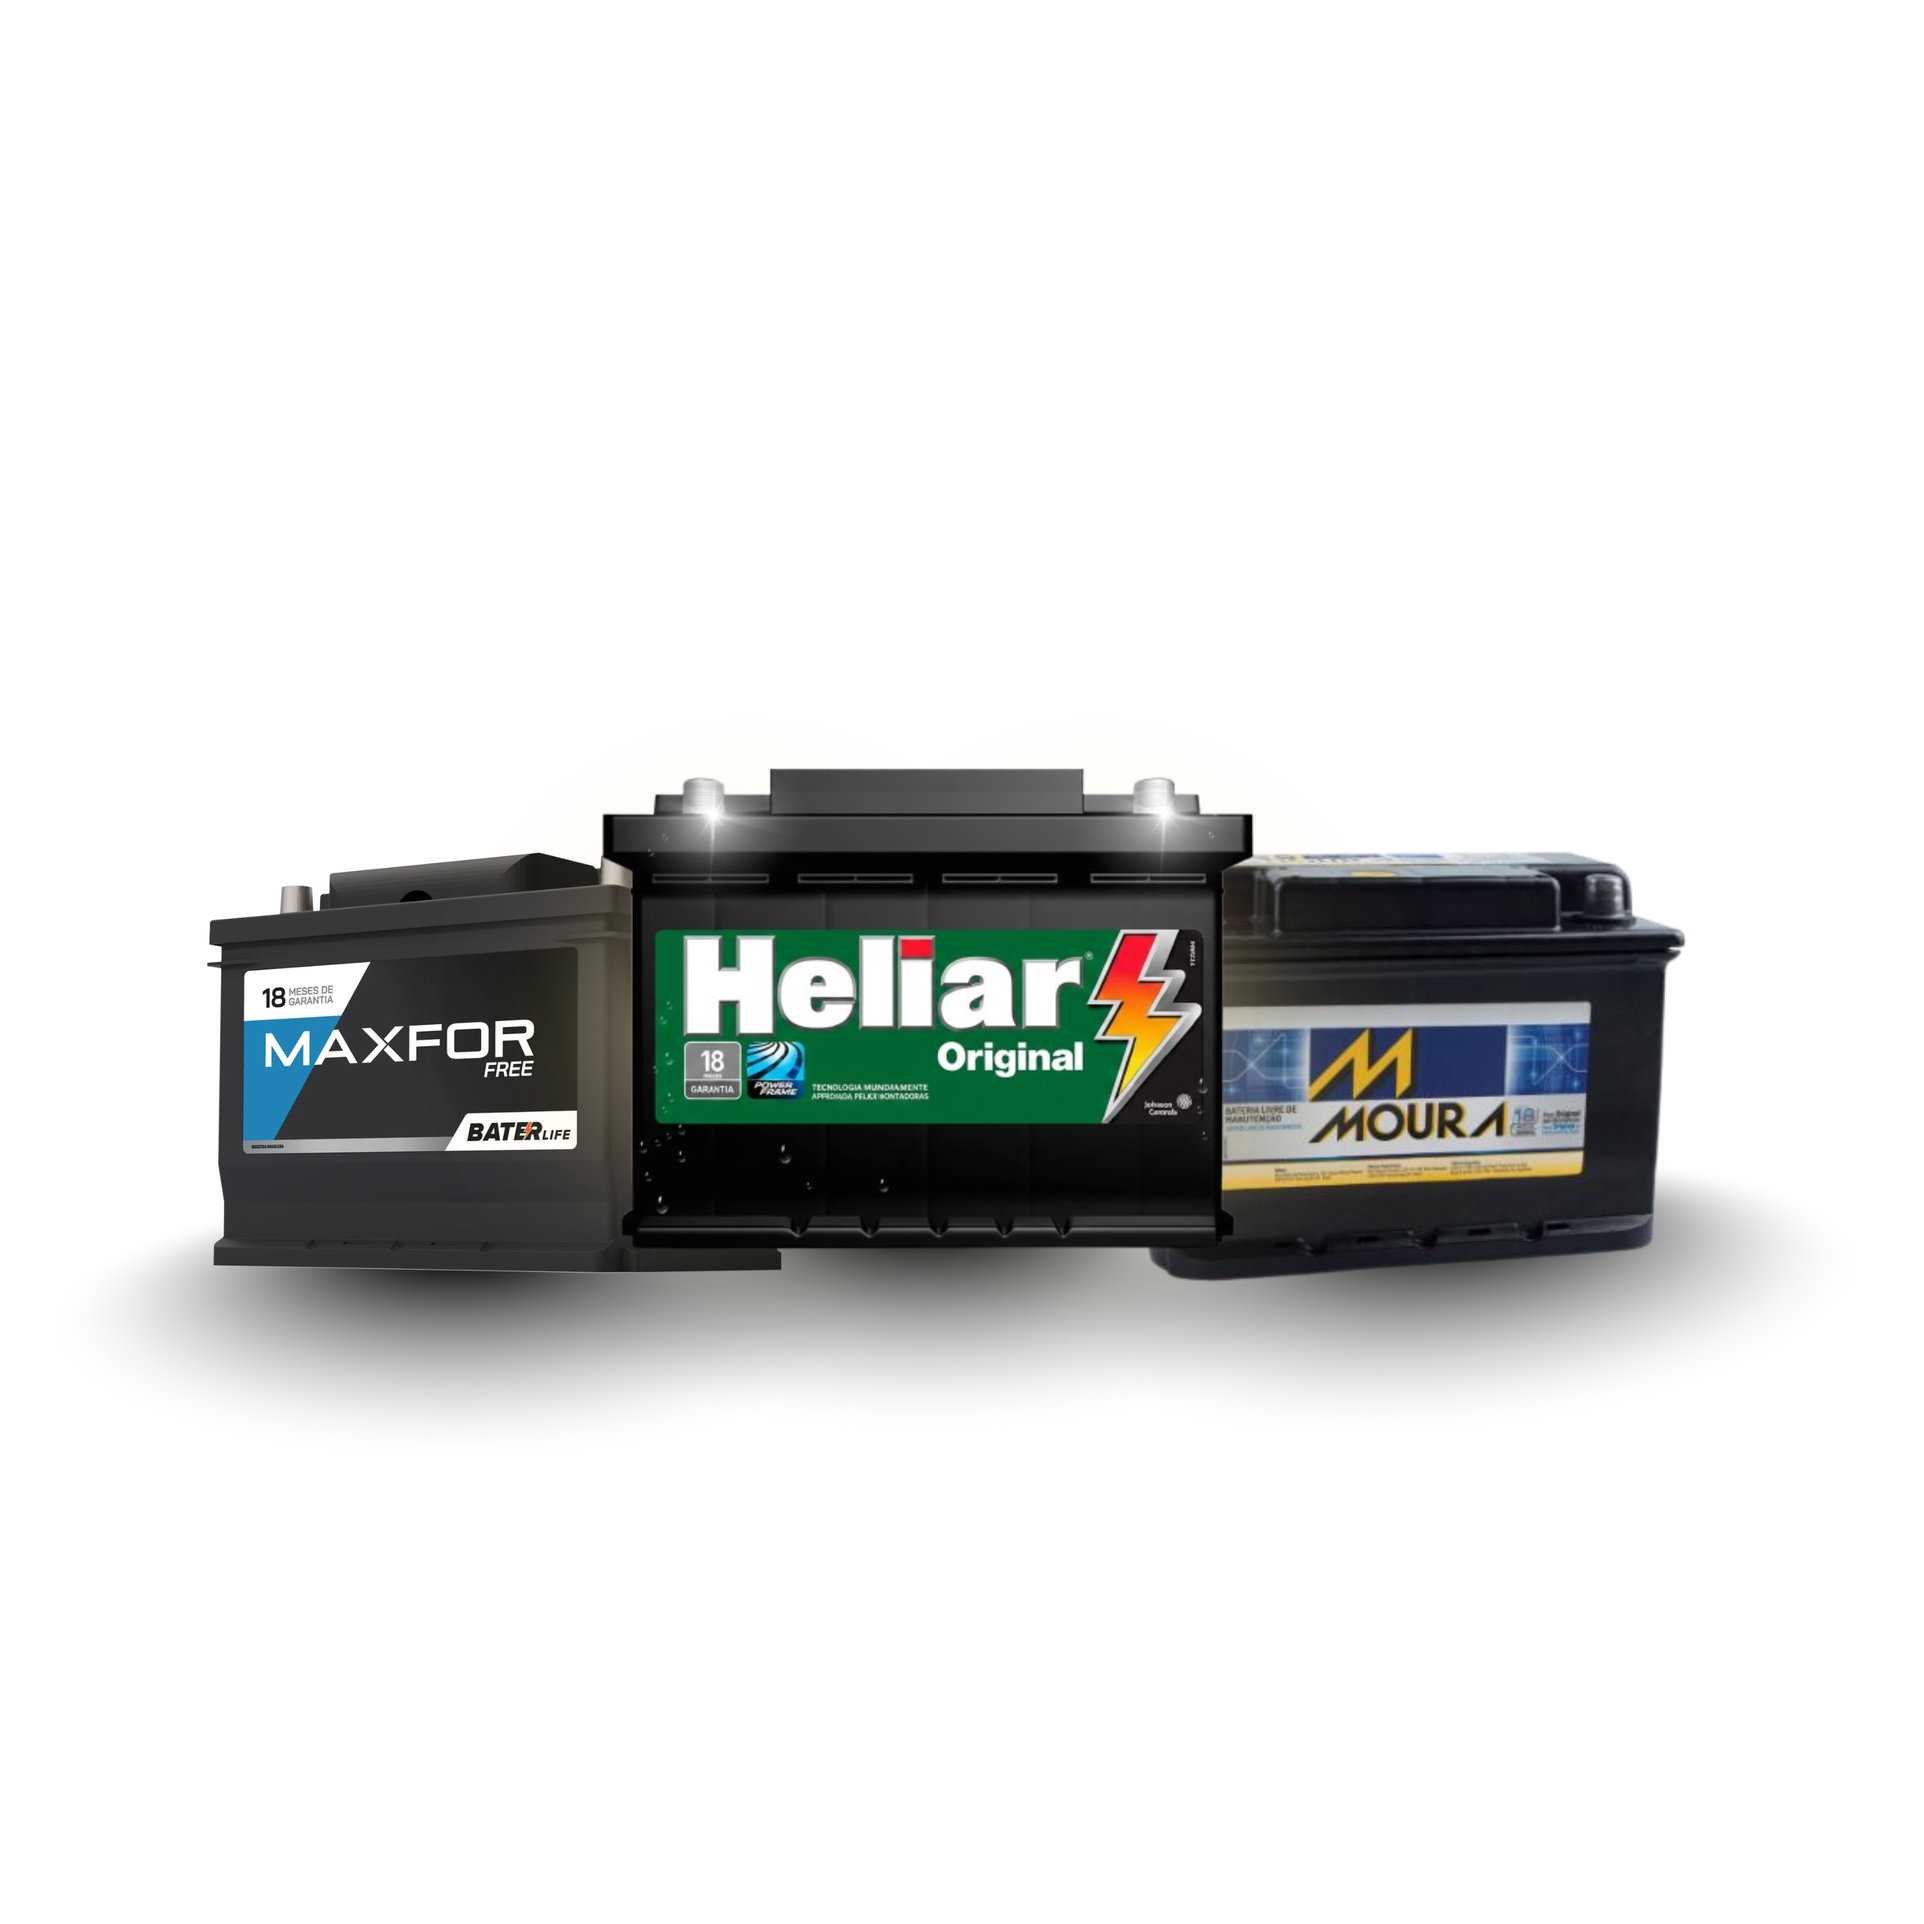
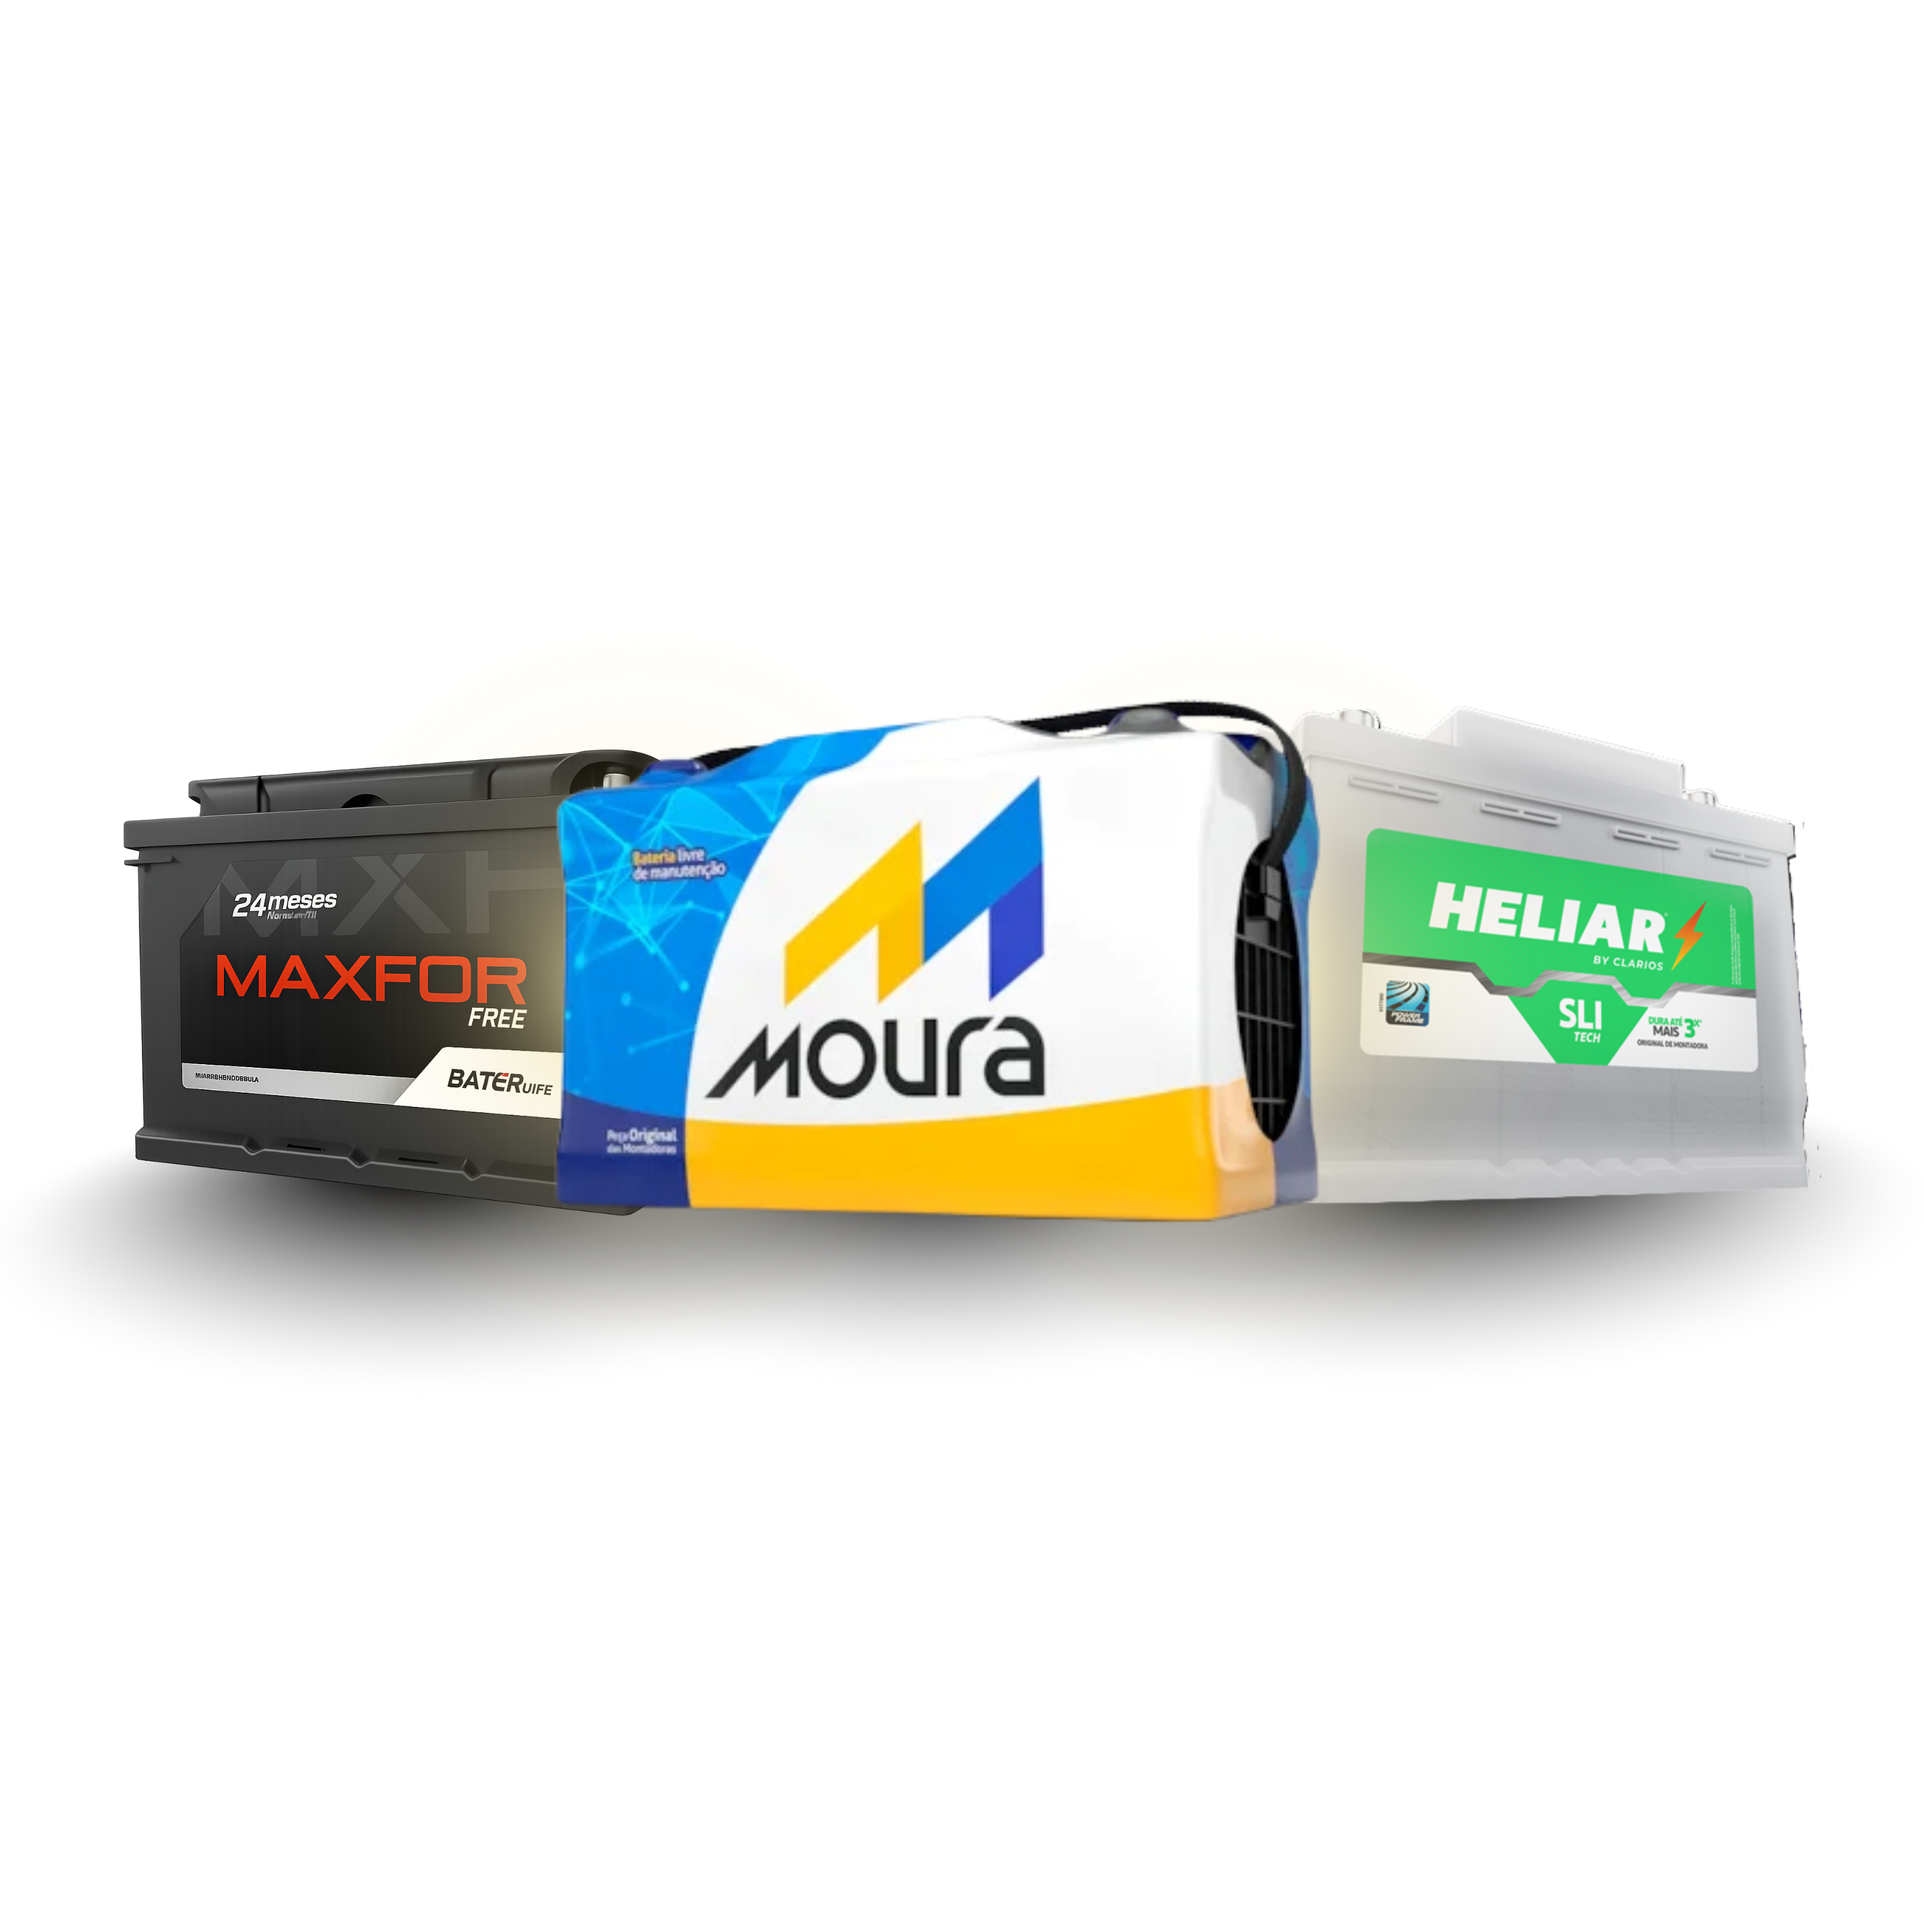
feat: ajustes

Changed region(s): [[0.0312, 0.3429, 0.9664, 0.7481]]

diff --git a/DcaBaterias/index.html b/DcaBaterias/index.html
@@ -283,14 +283,14 @@
           </div>
         </div>
         <div class="col-lg-6 mb-5 mb-lg-0">
-          <div class="services-image-wrapper position-relative">
+          <div class="services-image-wrapper position-relative w-100">
             
             <div class="experience-badge shadow-lg">
               <span class="h2 fw-bold d-block text-white mb-0">100%</span>
               <span class="text-white-50 small text-uppercase">Original</span>
             </div>
-
-            <img src="assets/images/bateria-destaque.png" alt="Bateria Automotiva Original Moura e Heliar" class="img-fluid">
+            
+            <img src="assets/images/bateria-heliar2.png" alt="Bateria Automotiva Original Moura e Heliar" class="img-fluid">
           </div>
         </div>
       </div>
@@ -371,7 +371,7 @@
           
           <div class="col-lg-5 mb-5 mb-lg-0 text-white">
             <span class="badge bg-warning text-dark mb-3 px-3 py-2 rounded-pill fw-bold">Atacado com Exclusividade</span>
-            <h2 class="display-5 fw-bold mb-3">Atacado com Exclusividade <span class="text-warning">MAXFOR</span></h2>
+            <h2 class="display-5 fw-bold mb-3 text-white">Atacado com Exclusividade <span class="text-warning">MAXFOR</span></h2>
             <p class="lead text-white-50 mb-4">
               A solução definitiva para lojistas, oficinas e revendedores que buscam margem real de lucro.
             </p>
@@ -557,8 +557,15 @@
 
           </div>
         </div>
+        
 
       </div>
+      <div class="mt-5 d-flex justify-content-center">
+        <a href="https://wa.me/558420109355" class="btn primary-btn btn-lg semi-rounded shadow-sm">
+          <i class="lni lni-whatsapp me-2"></i>Quero minha bateria agora!
+        </a>
+      </div>
+
     </div>
   </section>
   <!--/ End Pricing  Area -->
@@ -743,7 +750,13 @@
 <!-- End Footer Area -->
 
 
-	
+	<a href="https://wa.me/558420109355" 
+    class="whatsapp-float btn-hover" 
+    target="_blank" 
+    aria-label="WhatsApp">
+    <i class="lni lni-whatsapp"></i>
+  </a>
+
 
   <a href="#" class="scroll-top btn-hover">
     <i class="lni lni-chevron-up"></i>

diff --git a/DcaBaterias/style.css b/DcaBaterias/style.css
@@ -192,6 +192,30 @@ p {
   background-color: var(--dark-1);
 }
 
+.whatsapp-float {
+  position: fixed;
+  bottom: 30px;
+  left: 30px;
+  width: 52px;
+  height: 52px;
+  background-color: #25D366;
+  color: #fff;
+  border-radius: 50%;
+  display: flex;
+  align-items: center;
+  justify-content: center;
+  font-size: 26px;
+  z-index: 999;
+  box-shadow: 0 6px 20px rgba(0, 0, 0, 0.2);
+  transition: all 0.3s ease;
+}
+
+.whatsapp-float:hover {
+  transform: scale(1.1);
+  background-color: #1ebe5d;
+}
+
+
 /*===========================
   Section Title Five CSS
 ===========================*/
